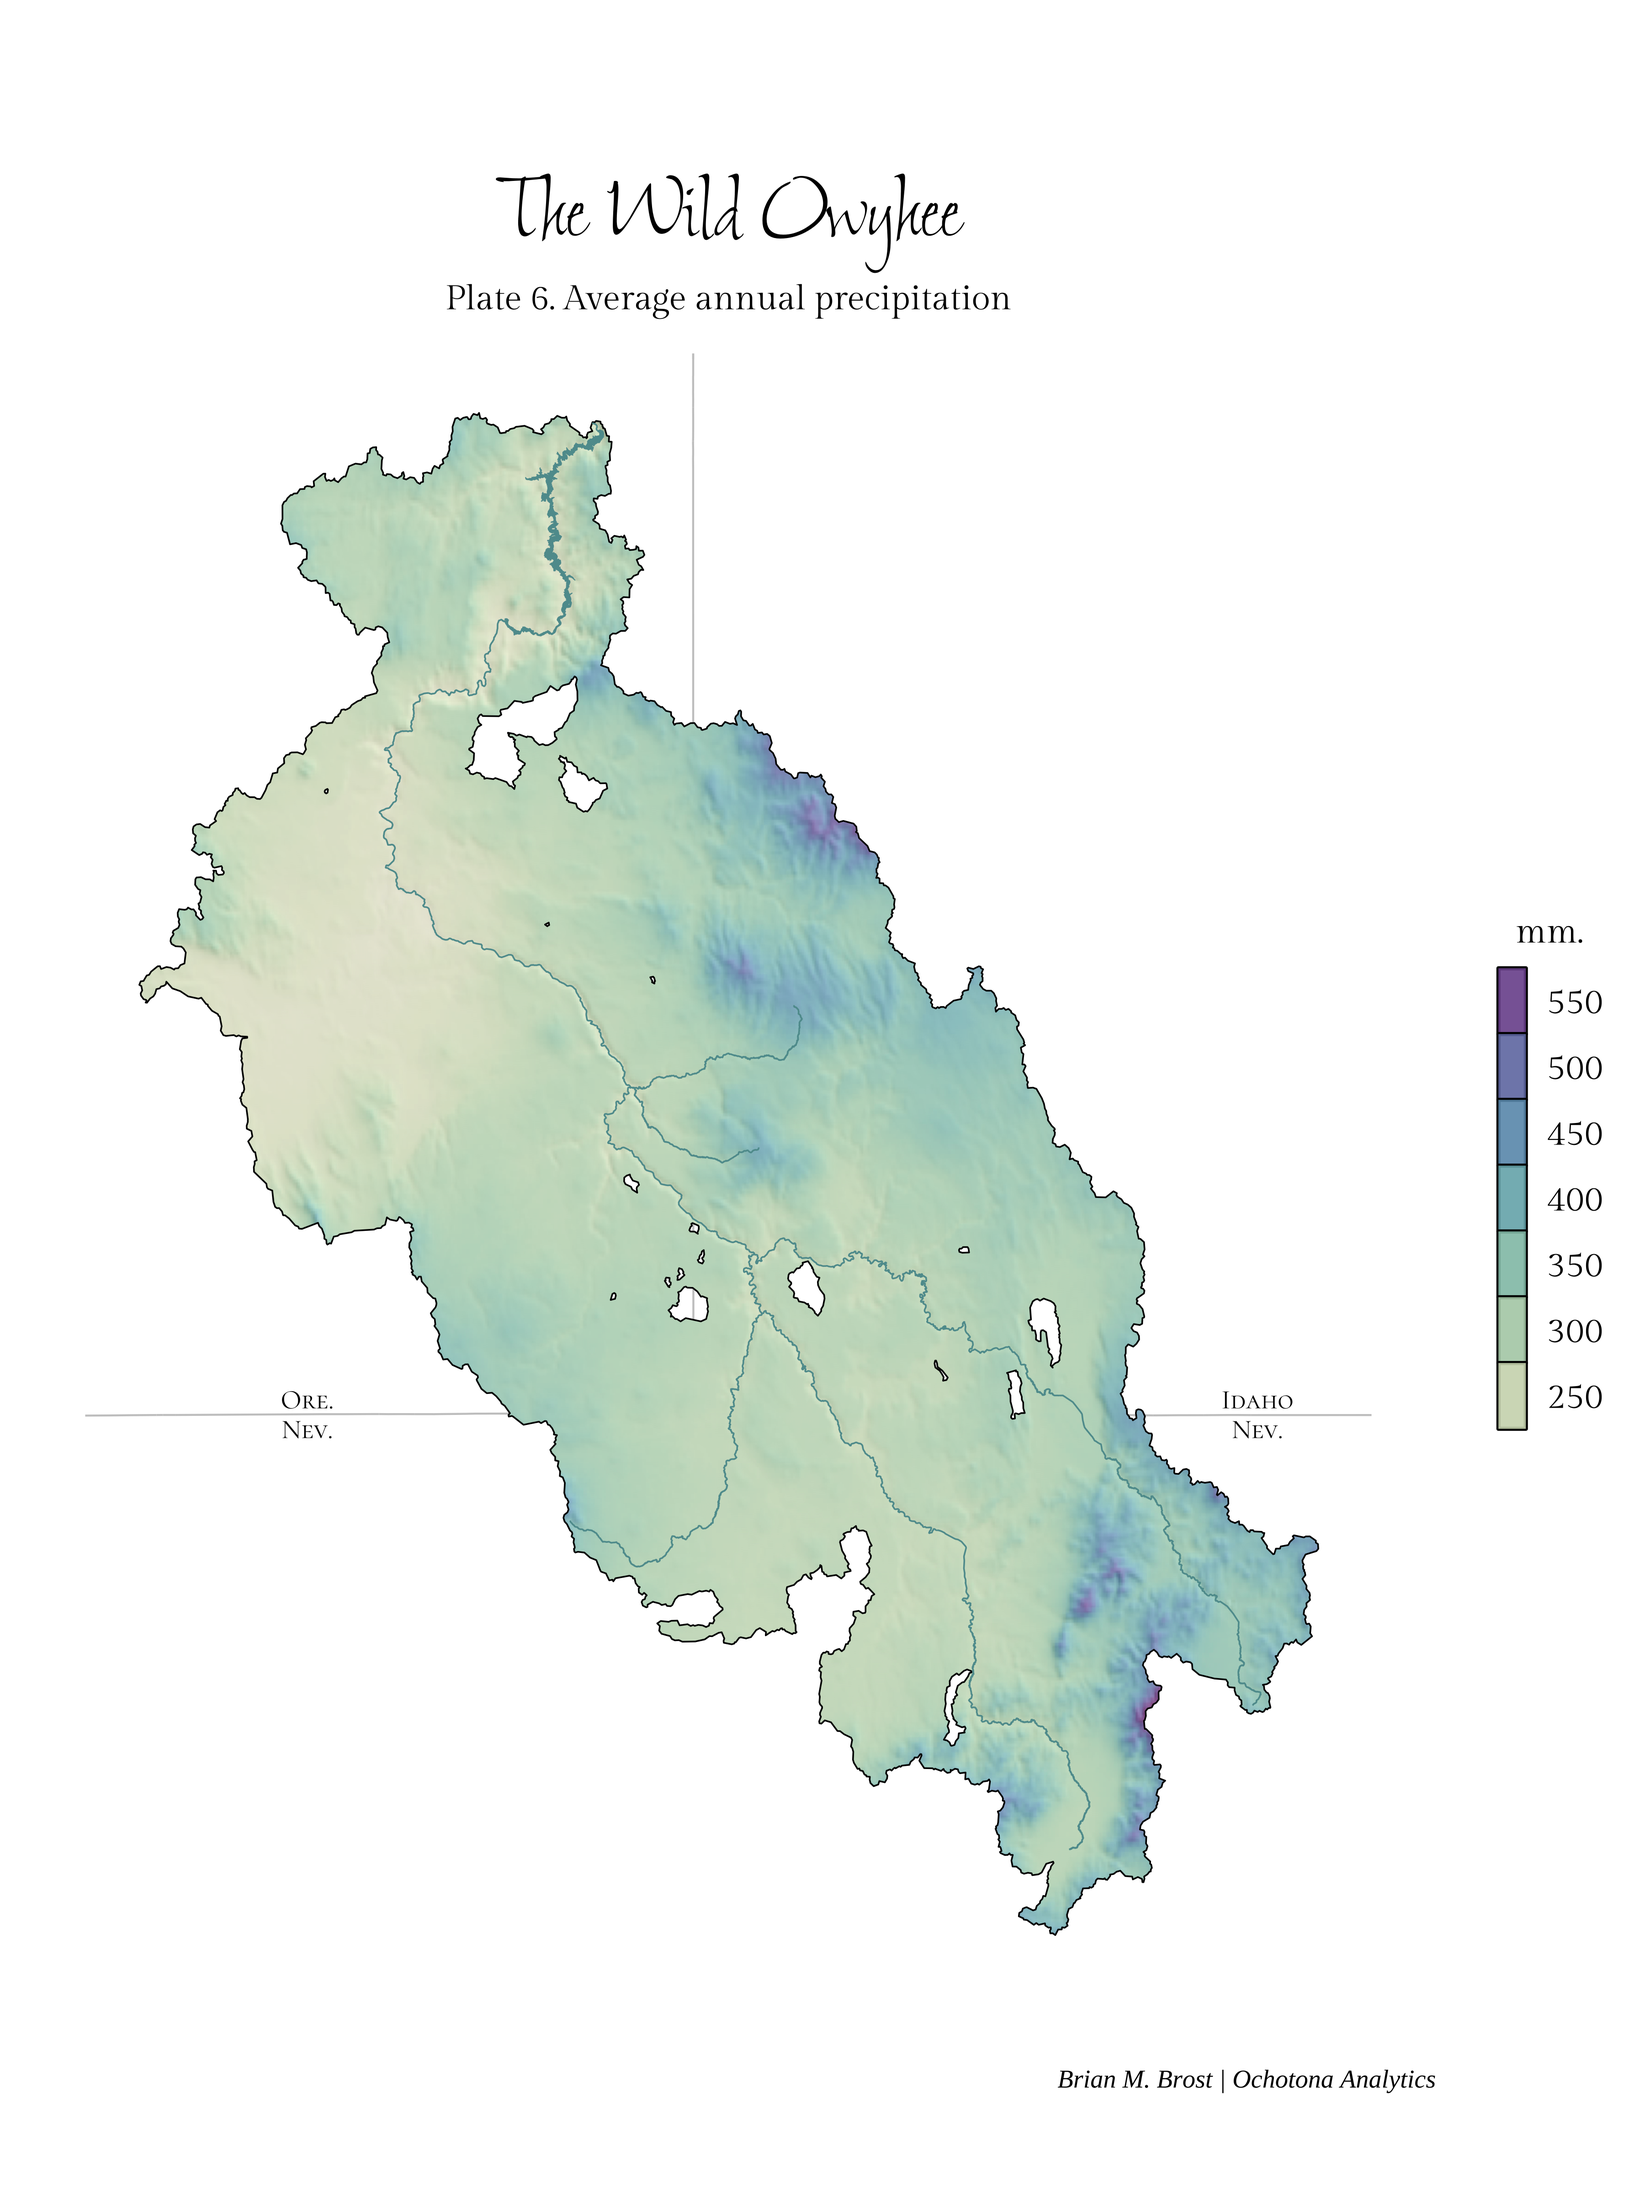
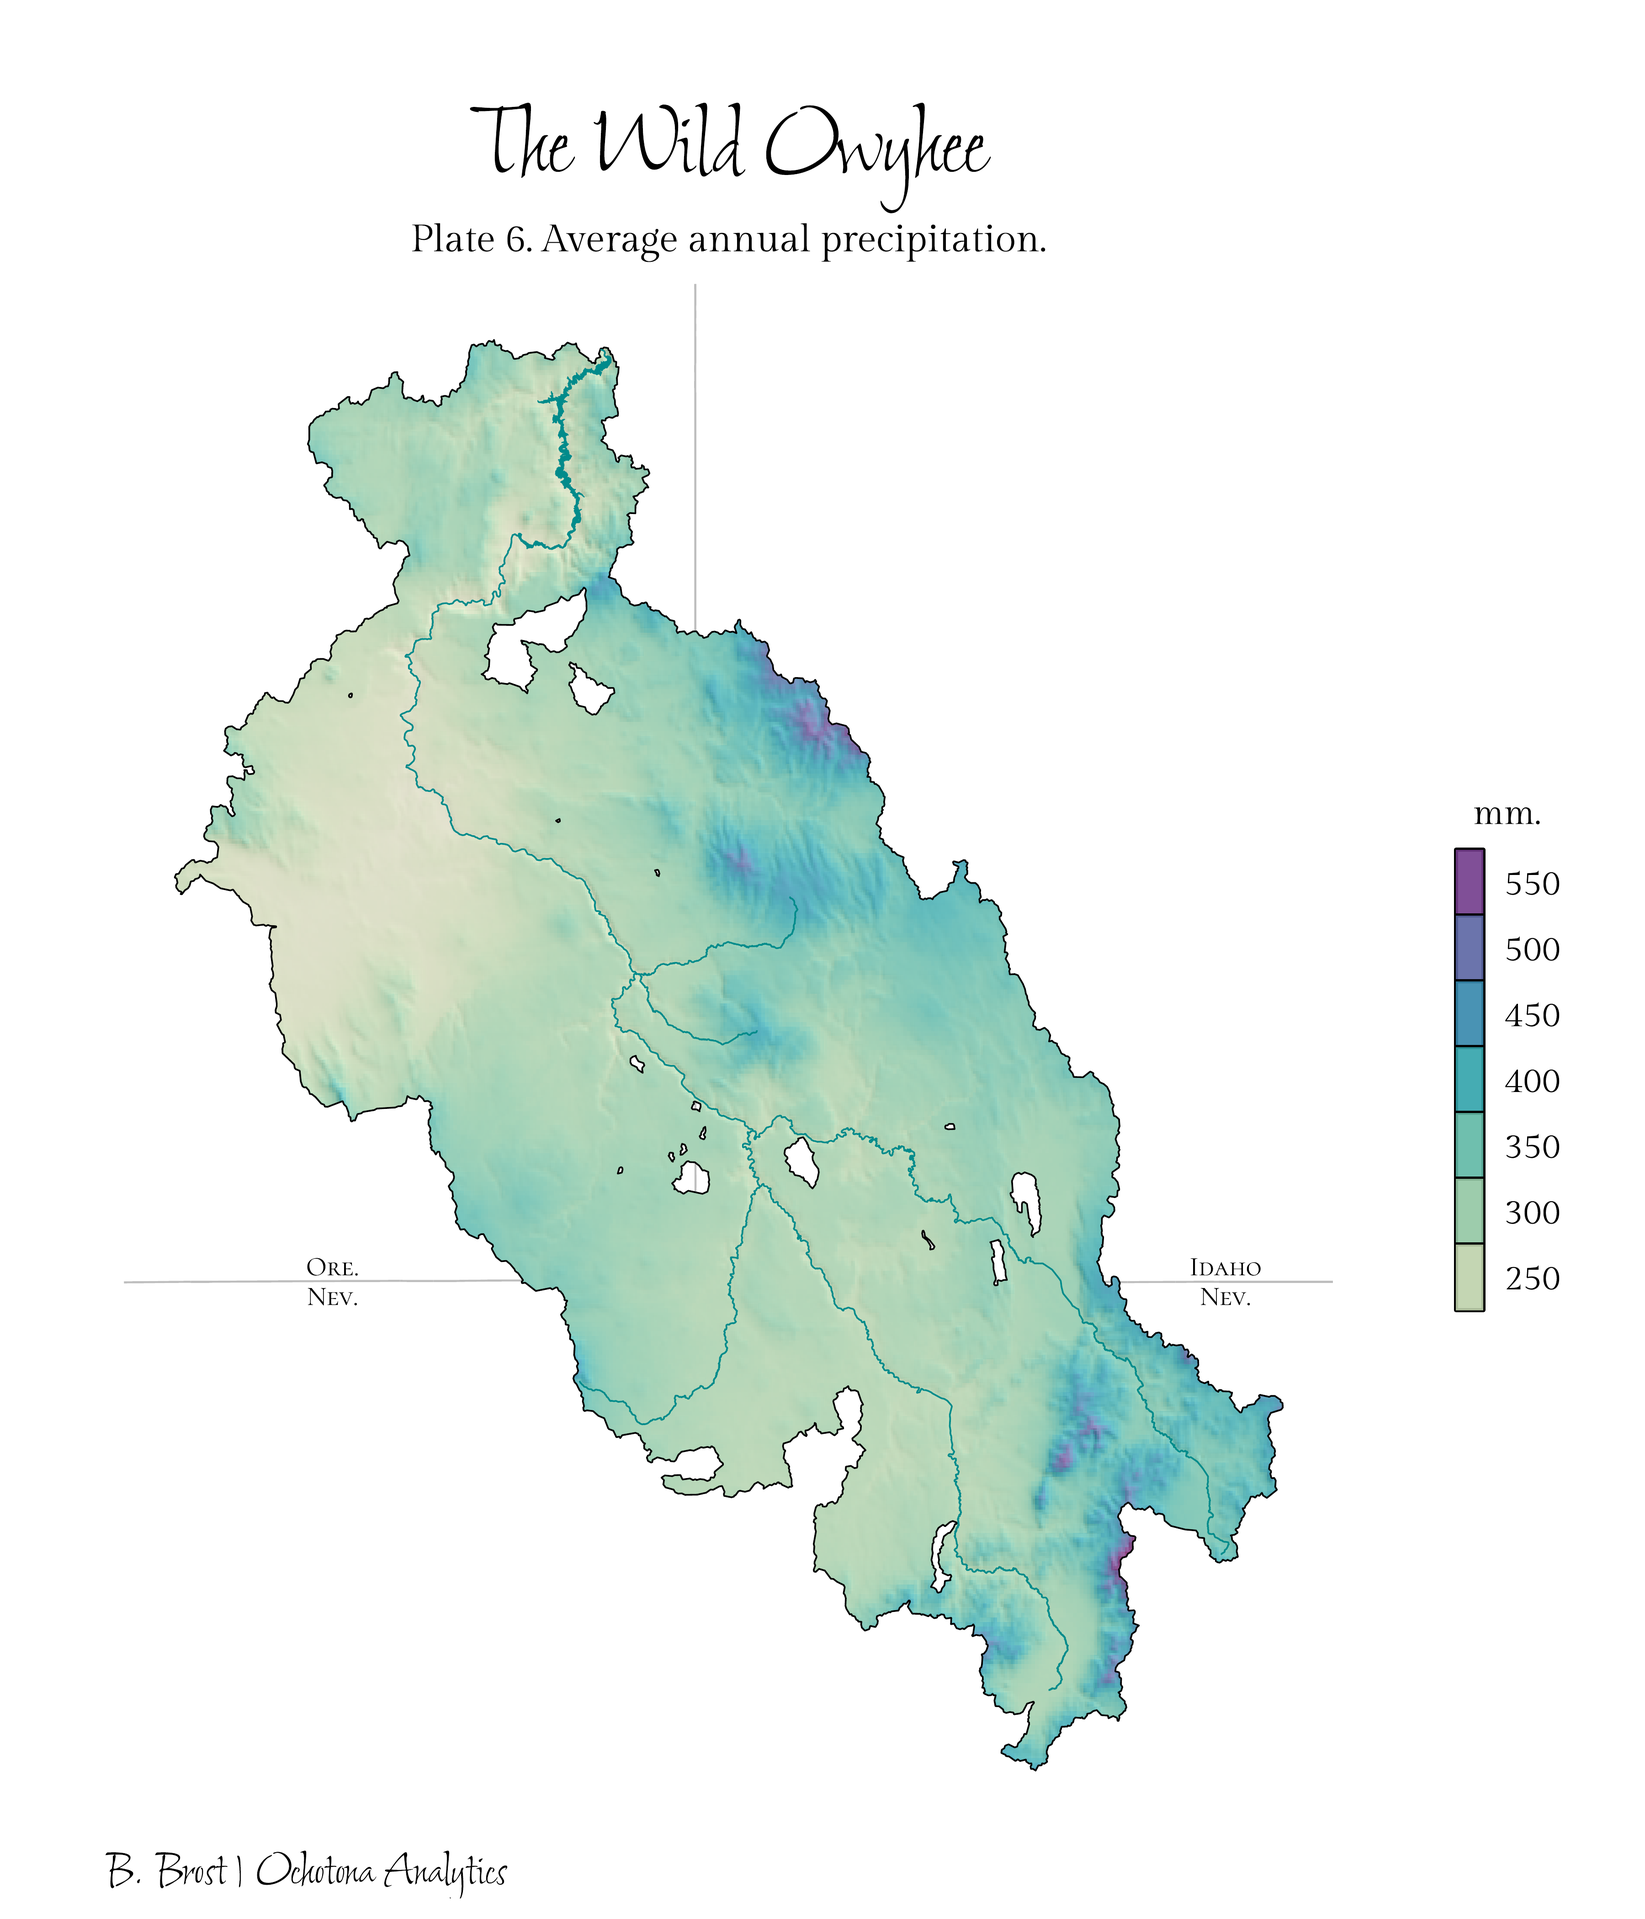
Update Wild Owyhee R code and figure

diff --git a/docs/index.html b/docs/index.html
@@ -143,7 +143,7 @@ gtag('config', 'G-GMY5LHEEJL', { 'anonymize_ip': true});
 
 
 <!-- Add headshot -->
-<p><img class="about-image" src="media/headshot_1.jpg" style="width:12em; height:12em;"></p>
+<p><img class="about-image" src="media/headshot.jpg" style="width:12em; height:12em;"></p>
 <!-- Name, headline, and links -->
 <section id="brian-m.-brost" class="level1 title">
 <h1>Brian M. Brost</h1>
